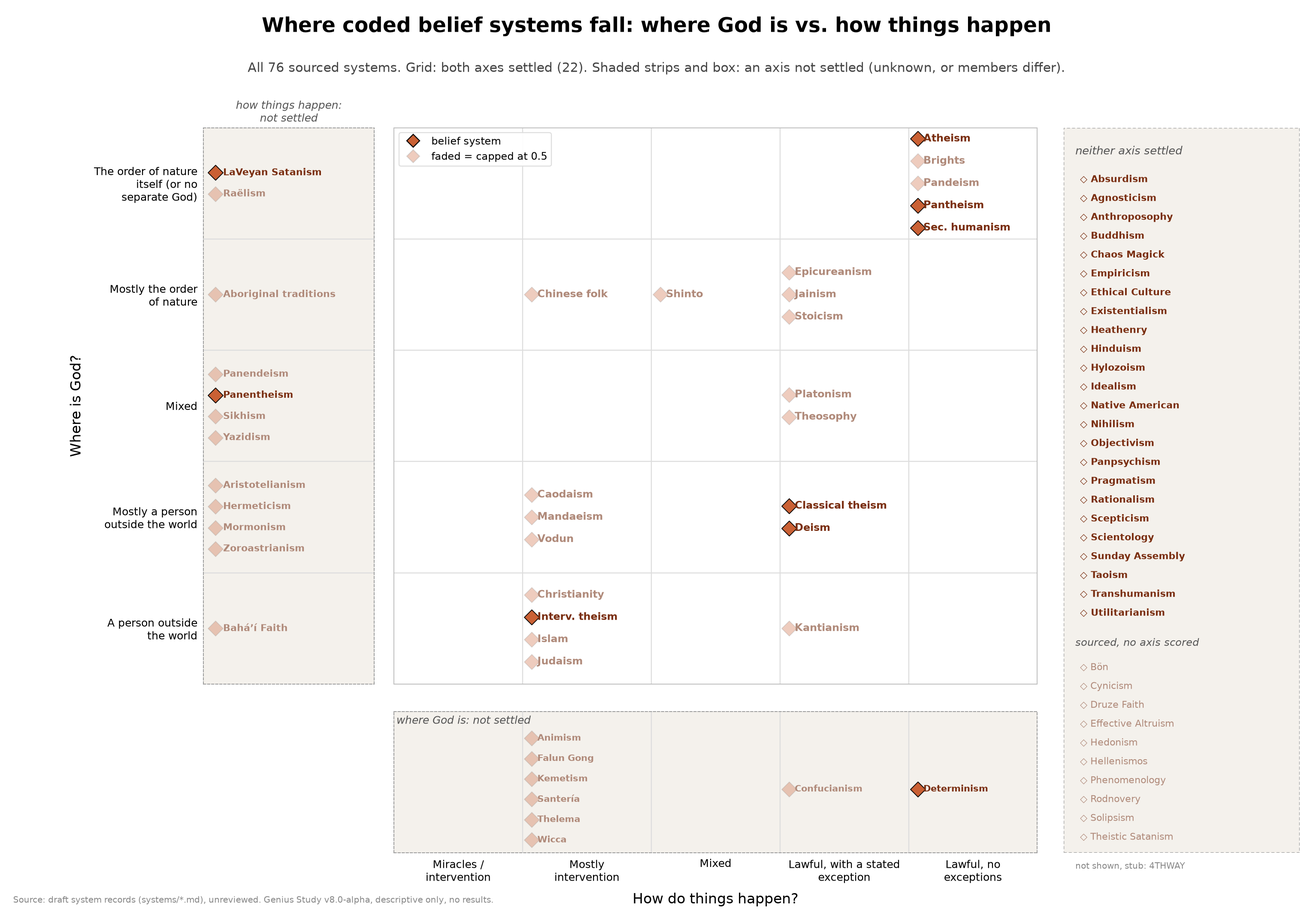
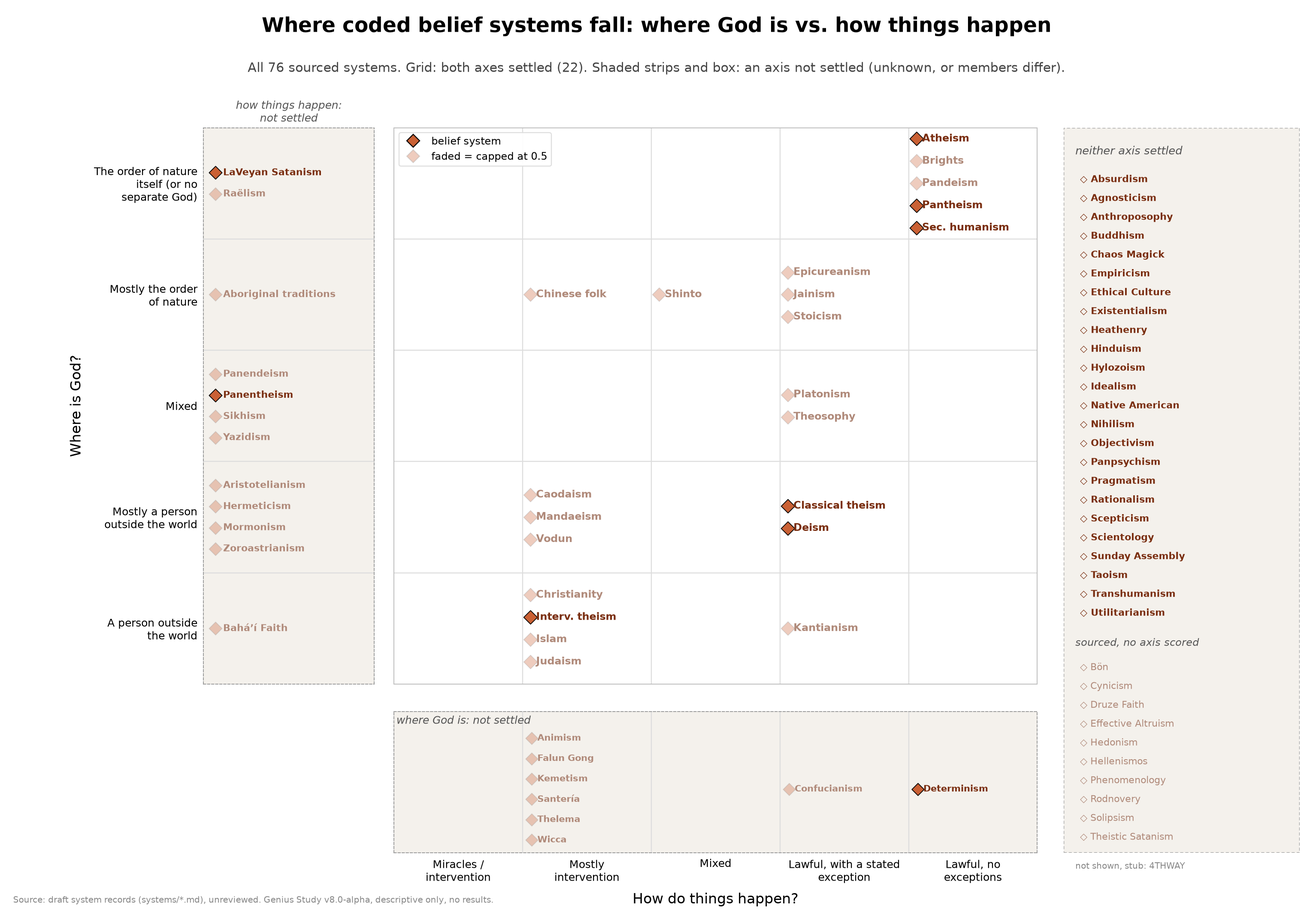
Chart labels: fitted columns and fonts so no labels overlap; surname labels drop suffixes and parentheticals (King, Ibn Rushd); figures regenerated (57 plotted, 86 not scorable)

diff --git a/scripts/make_figures.py b/scripts/make_figures.py
@@ -25,7 +25,7 @@ from matplotlib.patches import Rectangle  # noqa: E402
 sys.path.insert(0, os.path.dirname(os.path.abspath(__file__)))
 from matplotlib.lines import Line2D  # noqa: E402
 import math  # noqa: E402
-from lib.records import (REPO, read_record, read_csv, person_files, people_axis_points, P43_PEOPLE)  # noqa: E402
+from lib.records import (REPO, read_record, read_csv, person_files, people_axis_points, P43_PEOPLE, short_label)  # noqa: E402
 
 FOOTER = "Genius Study v8.0-alpha · descriptive only, no results"
 MODELS = ["Claude", "DeepSeek", "Gemini", "GPT", "Grok"]
@@ -46,6 +46,81 @@ SOURCED_SYSTEMS = ["CLASS_THEISM", "CLTHEI", "CHRIST", "ISLAM", "JUDA", "DEISM",
                    "DETERM", "LVSAT", "PANENT", "HEDON", "PANPSY", "IDEAL"]
 AXES = ["A_locus", "B_cause", "C_ledger", "D_authority", "E_scope"]
 DPI = 170
+
+
+# Label layout ---------------------------------------------------------------
+from matplotlib.font_manager import FontProperties  # noqa: E402
+from matplotlib.textpath import TextToPath  # noqa: E402
+
+_T2P = TextToPath()
+
+
+def text_width_in(label, fs, bold=False):
+    """Width of a label in inches at font size fs (points)."""
+    prop = FontProperties(size=fs, weight="bold" if bold else "normal")
+    w, _, _ = _T2P.get_text_width_height_descent(label, prop, ismath=False)
+    return w / 72.0
+
+
+def fit_cell(labels, cell_w, cell_h, fs_max, fs_min=7.5, dot_gap=0.05, head=(), max_cols=4, bold_head=True,
+             line=1.45, usable_w=0.92, usable_h=0.84, pad=0.08):
+    """Pick (ncols, fs) for one grid cell so that no label overlaps its neighbour.
+    cell_w, cell_h: the cell's size in inches. labels fill columns below `head` labels, which take full-width rows.
+    Prefers the largest font, then the fewest columns. dot_gap is the dot-to-text offset and pad the clear space
+    before the next column's marker, both in cell units."""
+    n = len(labels)
+    fs = fs_max
+    while fs >= fs_min - 1e-9:
+        rowh = fs * line / 72.0 / cell_h                    # one text line, in cell units
+        ok = []
+        for ncols in range(1, max_cols + 1):
+            if n == 0 and ncols > 1:
+                break
+            nrows = len(head) + (math.ceil(n / ncols) if n else 0)
+            if nrows * rowh > usable_h:
+                continue
+            colw = usable_w / ncols
+            wide = max((text_width_in(t, fs) / cell_w for t in labels), default=0)
+            hw = max((text_width_in(t, fs, bold_head) / cell_w for t in head), default=0)
+            if dot_gap + wide + pad <= colw and dot_gap + hw <= usable_w:
+                ok.append((ncols, nrows))
+        if ok:
+            # Largest font first; then the fewest columns that keep a cell to about six rows.
+            short = [c for c, r in ok if r <= 6]
+            return (short[0] if short else ok[0][0]), fs
+        fs -= 0.5
+    return max_cols, fs_min
+
+
+def report_overlaps(fig, name):
+    """Print any overlapping label boxes (labels against labels and against markers). Used to check the charts."""
+    fig.canvas.draw()
+    r = fig.canvas.get_renderer()
+    boxes = []
+    for ax in fig.axes:
+        for t in ax.texts:
+            if t.get_text().strip():
+                boxes.append(("text", t.get_text(), t.get_window_extent(r)))
+        for c in ax.collections:
+            sizes = c.get_sizes()
+            for k, (x, y) in enumerate(c.get_offsets()):
+                px, py = c.get_offset_transform().transform((x, y))
+                area = sizes[k % len(sizes)] if len(sizes) else 36
+                rad = math.sqrt(area) / 2 * fig.dpi / 72.0
+                from matplotlib.transforms import Bbox
+                boxes.append(("dot", "", Bbox([[px - rad, py - rad], [px + rad, py + rad]])))
+    hits = []
+    for i in range(len(boxes)):
+        for j in range(i + 1, len(boxes)):
+            a, b = boxes[i], boxes[j]
+            if a[0] == "dot" and b[0] == "dot":
+                continue
+            if a[2].overlaps(b[2]):
+                ov = min(a[2].x1, b[2].x1) - max(a[2].x0, b[2].x0), min(a[2].y1, b[2].y1) - max(a[2].y0, b[2].y0)
+                if ov[0] > 1 and ov[1] > 1:
+                    hits.append((a[1] or "<dot>", b[1] or "<dot>"))
+    print(f"{name}: {len(hits)} label overlaps" + (": " + "; ".join(f"{x} / {y}" for x, y in hits[:20]) if hits else ""))
+    return hits
 
 
 def footer(fig, source):
@@ -158,7 +233,6 @@ def fig_core_composition(out):
 def fig_people_cause_locus(out):
     """Surnames sit next to their dots on a 5x5 grid. No region is shaded or labeled (Jason, 2026-10-08).
     Full 0-4 range on both axes. People come from people_axis_points(), not a hardcoded list."""
-    short_names = {"Galileo Galilei": "Galileo", "Ibn Sina (Avicenna)": "Ibn Sina"}
     # Plain words for the 0-4 scale (CODING_GUIDE §6: 0 pole, 1 leans, 2 mixed, 3 leans other pole with a stated exception, 4 pole)
     y_labels = ["A person outside\nthe world", "Mostly a person\noutside the world", "Mixed",
                 "Mostly the order\nof nature", "The order of nature\nitself (or no\nseparate God)"]
@@ -166,37 +240,41 @@ def fig_people_cause_locus(out):
                 "Lawful, with a stated\nexception", "Lawful, no\nexceptions"]
     dot = "#3B6AA0"
 
-    def short(name):
-        return short_names.get(name, name.split()[-1])
+    def label(p):
+        return short_label(p["name"]) + ("*" if p["name"] in P43_PEOPLE else "")
 
     pts, not_scorable = people_axis_points()
     cells = collections.defaultdict(list)
     for p in pts:
         cells[(p["B"], p["A"])].append(p)
 
-    fig = plt.figure(figsize=(16, 11))
-    ax = fig.add_axes((0.15, 0.13, 0.82, 0.72))
+    W, H = 18, 13
+    AX = (0.14, 0.12, 0.84, 0.74)
+    fig = plt.figure(figsize=(W, H))
+    ax = fig.add_axes(AX)
     ax.set_xlim(-0.5, 4.5)
     ax.set_ylim(-0.5, 4.5)
+    cell_w, cell_h = W * AX[2] / 5, H * AX[3] / 5
 
-    # Cells: a small grid of dots, surname to the right of each dot.
+    # Cells: a small grid of dots, surname to the right of each dot. Columns and font size are fitted per cell
+    # (fit_cell) so that no label runs into the next column or row.
     for (b, a), ps in cells.items():
-        ps = sorted(ps, key=lambda p: short(p["name"]))
+        ps = sorted(ps, key=label)
+        labs = [label(p) for p in ps]
         n = len(ps)
-        ncols = 1 if n <= 5 else 2  # one column fits long surnames; two only for crowded cells
+        ncols, fs = fit_cell(labs, cell_w, cell_h, fs_max=12, dot_gap=0.05, max_cols=3)
         nrows = math.ceil(n / ncols)
-        colw = 0.9 / ncols
-        rowh = min(0.24, 0.8 / max(nrows, 1))
+        colw = 0.92 / ncols
+        rowh = min(0.24, 0.8 / max(nrows - 1, 1))
         for i, p in enumerate(ps):
             c, r = divmod(i, nrows)  # fill down each column first
-            x = b - 0.42 + c * colw
+            x = b - 0.44 + c * colw
             y = a + (nrows - 1) / 2 * rowh - r * rowh
             cert = min(p["cA"], p["cB"])
             faded = cert < 0.7
             ax.scatter(x, y, s=120, color=dot, alpha=0.28 if faded else 0.95,
                        edgecolor="#999999" if faded else "black", lw=0.8, zorder=3)
-            label = short(p["name"]) + ("*" if p["name"] in P43_PEOPLE else "")
-            ax.text(x + 0.05, y, label, ha="left", va="center", fontsize=12,
+            ax.text(x + 0.05, y, labs[i], ha="left", va="center", fontsize=fs,
                     color="#777777" if faded else "#111111", zorder=4)
 
     ax.set_xticks(range(5), x_labels, fontsize=11.5)
@@ -228,6 +306,7 @@ def fig_people_cause_locus(out):
     fig.text(0.01, 0.012, "Source: draft person records in neuresthetics/neuresthetics_genius_study (people/), "
              "unreviewed. Genius Study v8.0-alpha, descriptive only, no results.",
              ha="left", va="bottom", fontsize=8.5, color="#888888")
+    report_overlaps(fig, "people_cause_locus.png")
     save(fig, out, "people_cause_locus.png")
 
 
@@ -343,31 +422,39 @@ def _style(it):
 
 def _mark(ax, x, y, it, fs):
     sysm, f, col, tcol = _style(it)
-    ax.scatter(x, y, s=110 if sysm else 95, marker="D" if sysm else "o", color=col, alpha=0.30 if f else 0.95,
+    # Shrink markers with the font in crowded cells so that stacked diamonds and dots do not touch.
+    size = min(110 if sysm else 95, (fs * (0.95 if sysm else 1.1)) ** 2)
+    ax.scatter(x, y, s=size, marker="D" if sysm else "o", color=col, alpha=0.30 if f else 0.95,
                edgecolor="#999999" if f else "black", lw=0.8, zorder=3, clip_on=False)
     ax.text(x + 0.045, y, it["label"], ha="left", va="center", fontsize=fs, fontweight="bold" if sysm else "normal",
             color=tcol, zorder=4, clip_on=False)
 
 
 def _draw_cells(ax, items):
-    """Systems take full-width rows at the top of a cell; people fill one or two columns below."""
+    """Systems take full-width rows at the top of a cell; people fill columns below. Columns and font size are
+    fitted per cell (fit_cell) from the axes' size so that labels do not overlap."""
+    fig = ax.figure
+    bb = ax.get_position()
+    cell_w = fig.get_figwidth() * bb.width / 5
+    cell_h = fig.get_figheight() * bb.height / 5
     cells = collections.defaultdict(list)
     for it in items:
         cells[(it["B"], it["A"])].append(it)
     for (b, a), its in cells.items():
         syss = sorted([i for i in its if i["kind"] == "system"], key=lambda i: i["label"])
         ppl = sorted([i for i in its if i["kind"] != "system"], key=lambda i: i["label"])
-        ncols = 1 if len(ppl) <= 5 - len(syss) else 2
-        prow = math.ceil(len(ppl) / ncols)
+        ncols, fs = fit_cell([i["label"] for i in ppl], cell_w, cell_h, fs_max=10, fs_min=7,
+                             dot_gap=0.045, head=[i["label"] for i in syss], max_cols=3, line=1.4)
+        prow = math.ceil(len(ppl) / ncols) if ppl else 0
         nrows = len(syss) + prow
-        rowh = min(0.2, 0.84 / max(nrows - 1, 1))
-        fs = 10 if nrows <= 5 else (9 if nrows <= 7 else 8)
+        rowh = min(0.2, 0.8 / max(nrows - 1, 1))
         top = a + (nrows - 1) / 2 * rowh
+        colw = 0.92 / ncols
         for i, it in enumerate(syss):
-            _mark(ax, b - 0.43, top - i * rowh, it, fs)
+            _mark(ax, b - 0.44, top - i * rowh, it, fs)
         for i, it in enumerate(ppl):
             c, r = divmod(i, prow)
-            _mark(ax, b - 0.43 + c * 0.47, top - (len(syss) + r) * rowh, it, fs)
+            _mark(ax, b - 0.44 + c * colw, top - (len(syss) + r) * rowh, it, fs)
 
 
 def _layout(fig):
@@ -480,17 +567,17 @@ def fig_systems_cause_locus(out):
     ax.legend(leg, names, loc="upper left", fontsize=10, frameon=True, framealpha=0.95, edgecolor="#DDDDDD")
     fig.text(0.01, 0.008, "Source: draft system records (systems/*.md), unreviewed. Genius Study v8.0-alpha, descriptive only, no results.",
              ha="left", va="bottom", fontsize=8.5, color="#888888")
+    report_overlaps(fig, "systems_cause_locus.png")
     save(fig, out, "systems_cause_locus.png")
 
 
 def fig_people_systems_overlay(out):
     grid, a_only, b_only, neither, unscored, stubs = system_axis_points()
     pts, not_scorable = people_axis_points()
-    short_names = {"Galileo Galilei": "Galileo", "Ibn Sina (Avicenna)": "Ibn Sina"}
     items = [{"B": p["B"], "A": p["A"], "kind": "person", "faded": min(p["cA"], p["cB"]) < 0.7,
-              "label": short_names.get(p["name"], p["name"].split()[-1]) + ("*" if p["name"] in P43_PEOPLE else "")}
+              "label": short_label(p["name"]) + ("*" if p["name"] in P43_PEOPLE else "")}
              for p in pts]
-    fig = plt.figure(figsize=(19, 13.5))
+    fig = plt.figure(figsize=(22, 15.5))
     ax, left, bot, box = _layout(fig)
     _draw_cells(ax, items + grid)
     _draw_strips(left, bot, a_only, b_only)
@@ -507,6 +594,7 @@ def fig_people_systems_overlay(out):
     ax.legend(leg, names, loc="upper left", fontsize=10, frameon=True, framealpha=0.95, edgecolor="#DDDDDD")
     fig.text(0.01, 0.008, "Source: draft person and system records, unreviewed. Genius Study v8.0-alpha, descriptive only, no results.",
              ha="left", va="bottom", fontsize=8.5, color="#888888")
+    report_overlaps(fig, "people_systems_overlay.png")
     save(fig, out, "people_systems_overlay.png")
 
 

diff --git a/scripts/progress_status.py b/scripts/progress_status.py
@@ -38,7 +38,7 @@ AUDITS = ("9 blind lens runs on four batches: 3 on a 115-claim packet (eff4700),
 NEXT_STEPS = ("Stage 3 (everyone else with F ≥ 3) has started: the first 12 records (Spinoza, Descartes, Pascal, Leibniz, Kant, "
               "Hume, Darwin, Gauss, Riemann, Turing, Noether, von Neumann) are drafts that still need to apply P29 and P30 (the stage 3-b six "
               "follow P14–P28 on main; the stage 3-a six also still need P14–P28); the other 79 records follow P14–P28 (schema 1.3) and "
-              "P30's age rule, and their worldview.working_years now equals timing.major_work_period (P30 addendum); under P31 (continuity rule) all 55 values the span audit flagged stand; the strict-period alternative is in reports/period_rule_sensitivity.md; batch C (Wu, Lovelace, Smith, al-Farabi, al-Khwarizmi, Bell) is drafted in P32 order and its blind lens run is applied (P35, P36); batch D (Archimedes, Aristotle, McClintock, Russell, Debussy, Monet) is drafted and its blind audit is applied (P41); batch E (Dante, Euclid, Francis Bacon, Kahlo, Nietzsche, Dostoevsky) is drafted (P40) and its blind audit is applied; batch F (García Márquez, Hopper, Arendt, Poincaré, Hippocrates, Homer) is drafted (P42) and passed its blind audit (15/15 hold; fixes applied); batch G (Hypatia, Stravinsky, Bach, Locke) is drafted (P43) and passed its blind audit (13/13 hold; fixes applied); batch H (Marx, Tolstoy, Leonardo da Vinci, Beethoven) passed its blind audit (6 hold, 1 weaken; fixed); batch I (Wittgenstein, Maimonides, Michelangelo, Tesla) passed its blind audit (8 hold, 2 weaken; fixed); batch J (Omar Khayyam, Picasso, Plato, Raphael) passed its blind audit (10 hold, 3 weaken; fixed); batch K (Rembrandt, Rosalind Franklin, Salvador Dalí, Simone de Beauvoir) passed its blind audit (9 hold, 1 weaken; fixed); batch L (Socrates, Stephen Hawking, Thomas Edison, Tim Berners-Lee) passed its blind audit (10 hold, 1 weaken; fixed); batch M (Vincent van Gogh, Virginia Woolf, William Shakespeare, Wolfgang Amadeus Mozart) passed its blind audit (16 hold, 3 weaken; fixed; RQ1 gave the P42 will-preamble addendum); batch N (Andrew Wiles, Arthur Schopenhauer, B.F. Skinner, Carl Jung) passed its blind audit (17 hold, 5 weaken, 1 fail; fixed; RQ3 gave the P35 addendum on theories of mind and behaviour); batch O (Carl Sagan, Claude Shannon, Confucius, David Hilbert) passed its blind audit (19 hold, 3 weaken, 1 fail; fixed; RQ O1 and O2 gave the P42 and P16 addenda); the chart images were refreshed after batches M–O; batch P (Donald Knuth, Francis Crick, Franz Kafka, Galen) passed its blind audit (39 hold, 6 weaken, 0 fail; fixed; P1–P3 kept Knuth capped at 0.5, Galen B 3, Kafka BELOW_THRESHOLD); batch Q (Georg Wilhelm Friedrich Hegel, Georgia O'Keeffe, Henry Ford, Ibn Khaldun) passed its blind audit (43 hold, 4 weaken, 1 fail; fixed; Knuth span 1968–2023, Jason's call; Jason's ruling puts Hegel at B 2); batch R (Ibn Rushd (Averroes), Jacques Derrida, James Joyce, James Watson) passed its blind audit (39 hold, 4 weaken, 0 fail; fixed; R1 keeps Watson at 0.5: 'lifelong' does not lift the P1 cap); batch S (Jane Austen, Jane Goodall, Jean Piaget, Jean-Jacques Rousseau) passed its blind audit (43 hold, 4 weaken, 1 fail; fixed; S1 keeps Rousseau CHRIST, S2 adds the P42 addendum on adopted characters' words, S3 counts Austen's prayers at 0.5); batch T (Johann Wolfgang von Goethe, John Maynard Keynes, Jonas Salk, Leonhard Euler) is drafted and its blind audit is applied (rulings T1, T2, RQ-AU1); batch U (Martin Heidegger, Martin Luther King Jr., Michel Foucault, Miguel de Cervantes; Louis Pasteur already coded) passed its blind audit (38 hold, 6 weaken, 0 fail; fixed; U2 puts Cervantes BELOW_THRESHOLD; U1 on King's B and Kant's B 3 were settled by Jason's rulings on 2026-10-19: King B 3 at 0.7 from Strength to Love, mid_basin true; Kant B 3 at 0.7, alt 4); batch V (Miles Davis, Milton Friedman, Nelson Mandela, Niccolò Machiavelli) passed its blind audit (42 hold, 6 weaken, 0 fail; fixed; V1 sets Mandela's B UNKNOWN, V2 and V3 keep Machiavelli and Davis as coded); batch W (Nicolaus Copernicus, Pythagoras, Richard Wagner, Roger Penrose; Paul Dirac already coded) passed its blind audit (35 hold, 5 weaken, 0 fail; fixed; W1 keeps Copernicus BELOW_THRESHOLD, W2 adds IDEAL as a lead for Wagner, W3 keeps Penrose ATHE at 0.5); batch X (Samuel Morse, Siddhartha Gautama, Sigmund Freud, Srinivasa Ramanujan) passed its blind audit (45 hold, 7 weaken, 0 fail; fixed; X1 keeps Morse's B BELOW_THRESHOLD, X2 keeps Gautama BELOW_THRESHOLD with BUDDH the lead, X3 makes Freud not a scientist, X4 keeps Ramanujan as coded; Pythagoras's era now UNKNOWN under a strict P39); batch Y (Steve Jobs, Sun Tzu, Terence Tao, Toni Morrison; Thomas Aquinas already coded), the last batch of this run, passed its blind audit (64 hold, 3 weaken, 0 fail; fixed; Y1 and Y2 keep Jobs and Morrison BELOW_THRESHOLD, Y3 makes Tao not a scientist; Sun Tzu's era now UNKNOWN); the chart images were refreshed after batch Y (57 plotted, 86 not scorable); next in order after rank 136: Virgil, Ada Yonath, Akira Kurosawa, Al-Biruni; systems were sourced in batches of six in v7.1 number order "
+              "P30's age rule, and their worldview.working_years now equals timing.major_work_period (P30 addendum); under P31 (continuity rule) all 55 values the span audit flagged stand; the strict-period alternative is in reports/period_rule_sensitivity.md; batch C (Wu, Lovelace, Smith, al-Farabi, al-Khwarizmi, Bell) is drafted in P32 order and its blind lens run is applied (P35, P36); batch D (Archimedes, Aristotle, McClintock, Russell, Debussy, Monet) is drafted and its blind audit is applied (P41); batch E (Dante, Euclid, Francis Bacon, Kahlo, Nietzsche, Dostoevsky) is drafted (P40) and its blind audit is applied; batch F (García Márquez, Hopper, Arendt, Poincaré, Hippocrates, Homer) is drafted (P42) and passed its blind audit (15/15 hold; fixes applied); batch G (Hypatia, Stravinsky, Bach, Locke) is drafted (P43) and passed its blind audit (13/13 hold; fixes applied); batch H (Marx, Tolstoy, Leonardo da Vinci, Beethoven) passed its blind audit (6 hold, 1 weaken; fixed); batch I (Wittgenstein, Maimonides, Michelangelo, Tesla) passed its blind audit (8 hold, 2 weaken; fixed); batch J (Omar Khayyam, Picasso, Plato, Raphael) passed its blind audit (10 hold, 3 weaken; fixed); batch K (Rembrandt, Rosalind Franklin, Salvador Dalí, Simone de Beauvoir) passed its blind audit (9 hold, 1 weaken; fixed); batch L (Socrates, Stephen Hawking, Thomas Edison, Tim Berners-Lee) passed its blind audit (10 hold, 1 weaken; fixed); batch M (Vincent van Gogh, Virginia Woolf, William Shakespeare, Wolfgang Amadeus Mozart) passed its blind audit (16 hold, 3 weaken; fixed; RQ1 gave the P42 will-preamble addendum); batch N (Andrew Wiles, Arthur Schopenhauer, B.F. Skinner, Carl Jung) passed its blind audit (17 hold, 5 weaken, 1 fail; fixed; RQ3 gave the P35 addendum on theories of mind and behaviour); batch O (Carl Sagan, Claude Shannon, Confucius, David Hilbert) passed its blind audit (19 hold, 3 weaken, 1 fail; fixed; RQ O1 and O2 gave the P42 and P16 addenda); the chart images were refreshed after batches M–O; batch P (Donald Knuth, Francis Crick, Franz Kafka, Galen) passed its blind audit (39 hold, 6 weaken, 0 fail; fixed; P1–P3 kept Knuth capped at 0.5, Galen B 3, Kafka BELOW_THRESHOLD); batch Q (Georg Wilhelm Friedrich Hegel, Georgia O'Keeffe, Henry Ford, Ibn Khaldun) passed its blind audit (43 hold, 4 weaken, 1 fail; fixed; Knuth span 1968–2023, Jason's call; Jason's ruling puts Hegel at B 2); batch R (Ibn Rushd (Averroes), Jacques Derrida, James Joyce, James Watson) passed its blind audit (39 hold, 4 weaken, 0 fail; fixed; R1 keeps Watson at 0.5: 'lifelong' does not lift the P1 cap); batch S (Jane Austen, Jane Goodall, Jean Piaget, Jean-Jacques Rousseau) passed its blind audit (43 hold, 4 weaken, 1 fail; fixed; S1 keeps Rousseau CHRIST, S2 adds the P42 addendum on adopted characters' words, S3 counts Austen's prayers at 0.5); batch T (Johann Wolfgang von Goethe, John Maynard Keynes, Jonas Salk, Leonhard Euler) is drafted and its blind audit is applied (rulings T1, T2, RQ-AU1); batch U (Martin Heidegger, Martin Luther King Jr., Michel Foucault, Miguel de Cervantes; Louis Pasteur already coded) passed its blind audit (38 hold, 6 weaken, 0 fail; fixed; U2 puts Cervantes BELOW_THRESHOLD; U1 on King's B and Kant's B 3 were settled by Jason's rulings on 2026-10-19: King B 3 at 0.7 from Strength to Love, mid_basin true; Kant B 3 at 0.7, alt 4); batch V (Miles Davis, Milton Friedman, Nelson Mandela, Niccolò Machiavelli) passed its blind audit (42 hold, 6 weaken, 0 fail; fixed; V1 sets Mandela's B UNKNOWN, V2 and V3 keep Machiavelli and Davis as coded); batch W (Nicolaus Copernicus, Pythagoras, Richard Wagner, Roger Penrose; Paul Dirac already coded) passed its blind audit (35 hold, 5 weaken, 0 fail; fixed; W1 keeps Copernicus BELOW_THRESHOLD, W2 adds IDEAL as a lead for Wagner, W3 keeps Penrose ATHE at 0.5); batch X (Samuel Morse, Siddhartha Gautama, Sigmund Freud, Srinivasa Ramanujan) passed its blind audit (45 hold, 7 weaken, 0 fail; fixed; X1 keeps Morse's B BELOW_THRESHOLD, X2 keeps Gautama BELOW_THRESHOLD with BUDDH the lead, X3 makes Freud not a scientist, X4 keeps Ramanujan as coded; Pythagoras's era now UNKNOWN under a strict P39); batch Y (Steve Jobs, Sun Tzu, Terence Tao, Toni Morrison; Thomas Aquinas already coded), the last batch of this run, passed its blind audit (64 hold, 3 weaken, 0 fail; fixed; Y1 and Y2 keep Jobs and Morrison BELOW_THRESHOLD, Y3 makes Tao not a scientist; Sun Tzu's era now UNKNOWN); the chart images were refreshed after batch Y and again after Jason's 2026-10-19 rulings and the label fix (57 plotted, 86 not scorable; no overlapping labels); next in order after rank 136: Virgil, Ada Yonath, Akira Kurosawa, Al-Biruni; systems were sourced in batches of six in v7.1 number order "
               "(S1 passed its blind audit, 5 hold, 2 weaken; fixed under P44; S2 passed its blind audit, 9 hold, 1 weaken; fixed; S3 passed its blind audit, 10 hold, 1 weaken; fixed; S4 passed its blind audit, 11 hold, 1 weaken; fixed; S5 passed its blind audit, 13/13 hold; follow-ups applied; S6 passed its blind audit, 14 hold, 1 weaken; fixed; S7 passed its blind audit, 13 hold, 3 weaken; fixed "
               "(P44(e)); S8 passed audit with fixes (SHINTO B, HINDU C, HELLEN and KEMET re-sourced under P45(a)); S9 passed audit with fixes (RODNOV A and BON A, B to UNKNOWN; P46 added); S10 passed audit with fixes (VODUN scope, ANTHRO D 1, quote-backed P46 checks); S11 passed audit with fixes (THEOS B 3; summary-only sources are leads); S12 passed audit with fixes (P45(b) amended; RAEL stays sourced). Systems pass complete: all 77 worked in batches S1–S12, every batch blind-audited with fixes applied; 66 sourced, 10 sourced but unscored (P46), 1 stub (4THWAY, until a full text is read)); the revised rubric has not started")
 

diff --git a/scripts/lib/records.py b/scripts/lib/records.py
@@ -237,6 +237,24 @@ def firm(p):
     return all(isinstance(c, (int, float)) and c >= CHART_CERT for c in (p["cA"], p["cB"]))
 
 
+SHORT_LABELS = {"Galileo Galilei": "Galileo", "Leonardo da Vinci": "Leonardo"}
+_SUFFIXES = {"jr", "jr.", "sr", "sr.", "ii", "iii", "iv"}
+
+
+def short_label(name):
+    """Chart label for a person: the surname, without a parenthetical ('Ibn Rushd (Averroes)') or a trailing
+    suffix ('Martin Luther King Jr.' -> 'King'). A two-word 'Ibn X' name keeps both words ('Ibn Rushd')."""
+    if name in SHORT_LABELS:
+        return SHORT_LABELS[name]
+    base = re.sub(r"\s*\([^)]*\)", "", name).strip()
+    toks = base.replace(",", " ").split()
+    while len(toks) > 1 and toks[-1].lower() in _SUFFIXES:
+        toks.pop()
+    if len(toks) == 2 and toks[0].lower() == "ibn":
+        return " ".join(toks)
+    return toks[-1] if toks else name
+
+
 def people_chart_caption():
     """README caption for figures/people_cause_locus.png, computed from the records. Every count uses only the
     people scorable for it; the rest are reported as not scorable yet (OPEN_DECISIONS P34)."""
@@ -264,7 +282,7 @@ def people_chart_caption():
         ivn = (f" **Interview voice (P43):** {names} {'rests' if len(iv) == 1 else 'rest'} on interview statements of disputed wording "
                f"(for Stravinsky, the Craft books), capped at 0.5 and drawn faded"
                + (f"; {nleft} plotted {'person scores' if nleft == 1 else 'people score'} left of B 3 "
-                  f"({', '.join(x['name'].split()[-1] for x in pts if x['B'] < 3)})" if nleft else "") + ".")
+                  f"({', '.join(short_label(x['name']) for x in pts if x['B'] < 3)})" if nleft else "") + ".")
     return (f"*Draft person scores: where God is (up the chart) against how things happen (across the chart). "
             f"No region is marked. Plotted: the {len(pts)} coded people with both axes scored; {brange}.{left}{ivn}{ns} "
             f"These are unreviewed, hand-picked drafts, not a sample, and there is no base rate for any era, so the "

diff --git a/README.md b/README.md
@@ -22,7 +22,7 @@ A study of where remembered genius sits on a scale of lawful, non-intervening or
 | Decisions settled | 61 / 61 |
 | Audits | 9 blind lens runs on four batches: 3 on a 115-claim packet (eff4700), 2 on a 147-claim packet (e648145), 2 on a 124-claim packet (d9903b7/43cecc4; fixes at 6f37cd6) and 2 on a 165-claim packet (b21655b; run 1 155 hold / 10 weaken, run 2 160 hold / 5 weaken, 0 wrong; agreement 156/165, κ 0.37; fixes applied at 3bcd59c); see [reports/audit_2026-10-02.md](reports/audit_2026-10-02.md). Stage 3: 4 blind runs on the first 12 records (stage 3-a: 561 claims at 59a8371; stage 3-b: 420 claims at 3db6511); their method rulings are decisions P14–P28; one blind run on the stage 3-b rulings (93 claims at 6155174: 88 hold, 4 weaken, 1 fail, fixed at 4c10399) gave P29; lens's runs on the v8.a rulings packet (34a73c4) and the v8.b P29 packet (e930597) gave P30; the P30 span-alignment audit (7a52a3f) gave P31; one blind run on stage 3 batch C (14 claims at dd91009: 8 hold, 6 weaken, 0 fail; no second run needed under P30 #16) gave P35 and P36; one blind run on batch D (16 claims at 3f4817e: 14 hold, 2 weaken, 0 fail) gave P41, and one on batch E (18 claims at 2332880: 17 hold, 1 weaken, 0 fail); their fixes are applied; one on batch F (15 claims at 64605bd: 15 hold, 0 weaken, 0 fail) passed; its fixes are applied; one on batch G (13 claims at 5ff29b4: 13 hold, 0 weaken, 0 fail) passed and gave P43 (Jason's ruling on RQ1); its fixes are applied. Batch H (Marx, Tolstoy, Leonardo da Vinci, Beethoven; 7 claims at cae9cb2: 6 hold, 1 weaken, 0 fail) passed and extended P41 to miracle rejection; its fixes are applied; batch I (Wittgenstein, Maimonides, Michelangelo, Tesla; 10 claims at bbb26f8: 8 hold, 2 weaken, 0 fail) passed; its fixes are applied; batch J (Omar Khayyam, Picasso, Plato, Raphael; 13 claims at 81b9098: 10 hold, 3 weaken, 0 fail) passed; its fixes are applied; batch K (Rembrandt, Rosalind Franklin, Salvador Dalí, Simone de Beauvoir; 10 claims at 2d75649: 9 hold, 1 weaken, 0 fail) passed; its fixes are applied; batch L (Socrates, Stephen Hawking, Thomas Edison, Tim Berners-Lee; 11 claims at 2742382: 10 hold, 1 weaken, 0 fail) passed; its fixes are applied at 55d6956; all of batches H–L have passed their audits with fixes applied; batch M (Vincent van Gogh, Virginia Woolf, William Shakespeare, Wolfgang Amadeus Mozart; 19 claims at 159d60d: 16 hold, 3 weaken, 0 fail) passed; its fixes are applied, and v8's ruling on its RQ1 (on the auditor's advice) added the P42 will-preamble addendum; batch N (Andrew Wiles, Arthur Schopenhauer, B.F. Skinner, Carl Jung; 23 claims at 041f54b: 17 hold, 5 weaken, 1 fail) passed; its fixes are applied, and v8's rulings on its RQ1–RQ3 (on the auditor's advice) set Schopenhauer's B 3 and Skinner's B 4 and added the P35 addendum on theories of mind and behaviour; batch O (Carl Sagan, Claude Shannon, Confucius, David Hilbert; 23 claims at ee3d463: 19 hold, 3 weaken, 1 fail) passed; its fixes are applied, and v8's rulings on its RQ O1 and O2 (on the auditor's advice) added the P42 addendum on disciples' records of sayings and the P16 addendum on a general remark on lawful nature; batch P (Donald Knuth, Francis Crick, Franz Kafka, Galen; 45 claims at 08be43b: 39 hold, 6 weaken, 0 fail) passed; its fixes are applied, and v8's picks on its P1–P3 (on the auditor's advice) cap Knuth's post-span evidence at 0.5 rather than excluding it, keep Galen's B 3 at 0.5 and keep Kafka BELOW_THRESHOLD; batch Q (Georg Wilhelm Friedrich Hegel, Georgia O'Keeffe, Henry Ford, Ibn Khaldun; 48 claims at 0b3023d: 43 hold, 4 weaken, 1 fail) passed; its fixes are applied, the Knuth span is 1968–2023 under P30 addendum d (Jason's call), and Jason's ruling on its RQ Q1 gives Hegel B 2 at 0.5 (Encyclopaedia §§248, 250); batch R (Ibn Rushd (Averroes), Jacques Derrida, James Joyce, James Watson; 43 claims at 0454445: 39 hold, 4 weaken, 0 fail) passed; its fixes are applied, and v8's call on its RQ R1 (on the auditor's advice) keeps Watson's post-span 'lifelong atheist' at the P1 cap of 0.5; batch S (Jane Austen, Jane Goodall, Jean Piaget, Jean-Jacques Rousseau; 48 claims at c5d448a: 43 hold, 4 weaken, 1 fail) passed with fixes applied; v8's calls on its RQ S1–S3 (on the auditor's advice) keep Rousseau CHRIST under P27, add the P42 addendum on a character's words adopted in the author's own voice (Rousseau stays at 0.7), and count Austen's prayers under P42 at 0.5 (A 0; she stays unplotted, B UNKNOWN); under P30 #16 its FAIL calls for a second blind run |
 | Latest tag | `v8.0-alpha` (prerelease) |
-| Next steps | Stage 3 (everyone else with F ≥ 3) has started: the first 12 records (Spinoza, Descartes, Pascal, Leibniz, Kant, Hume, Darwin, Gauss, Riemann, Turing, Noether, von Neumann) are drafts that still need to apply P29 and P30 (the stage 3-b six follow P14–P28 on main; the stage 3-a six also still need P14–P28); the other 79 records follow P14–P28 (schema 1.3) and P30's age rule, and their worldview.working_years now equals timing.major_work_period (P30 addendum); under P31 (continuity rule) all 55 values the span audit flagged stand; the strict-period alternative is in reports/period_rule_sensitivity.md; batch C (Wu, Lovelace, Smith, al-Farabi, al-Khwarizmi, Bell) is drafted in P32 order and its blind lens run is applied (P35, P36); batch D (Archimedes, Aristotle, McClintock, Russell, Debussy, Monet) is drafted and its blind audit is applied (P41); batch E (Dante, Euclid, Francis Bacon, Kahlo, Nietzsche, Dostoevsky) is drafted (P40) and its blind audit is applied; batch F (García Márquez, Hopper, Arendt, Poincaré, Hippocrates, Homer) is drafted (P42) and passed its blind audit (15/15 hold; fixes applied); batch G (Hypatia, Stravinsky, Bach, Locke) is drafted (P43) and passed its blind audit (13/13 hold; fixes applied); batch H (Marx, Tolstoy, Leonardo da Vinci, Beethoven) passed its blind audit (6 hold, 1 weaken; fixed); batch I (Wittgenstein, Maimonides, Michelangelo, Tesla) passed its blind audit (8 hold, 2 weaken; fixed); batch J (Omar Khayyam, Picasso, Plato, Raphael) passed its blind audit (10 hold, 3 weaken; fixed); batch K (Rembrandt, Rosalind Franklin, Salvador Dalí, Simone de Beauvoir) passed its blind audit (9 hold, 1 weaken; fixed); batch L (Socrates, Stephen Hawking, Thomas Edison, Tim Berners-Lee) passed its blind audit (10 hold, 1 weaken; fixed); batch M (Vincent van Gogh, Virginia Woolf, William Shakespeare, Wolfgang Amadeus Mozart) passed its blind audit (16 hold, 3 weaken; fixed; RQ1 gave the P42 will-preamble addendum); batch N (Andrew Wiles, Arthur Schopenhauer, B.F. Skinner, Carl Jung) passed its blind audit (17 hold, 5 weaken, 1 fail; fixed; RQ3 gave the P35 addendum on theories of mind and behaviour); batch O (Carl Sagan, Claude Shannon, Confucius, David Hilbert) passed its blind audit (19 hold, 3 weaken, 1 fail; fixed; RQ O1 and O2 gave the P42 and P16 addenda); the chart images were refreshed after batches M–O; batch P (Donald Knuth, Francis Crick, Franz Kafka, Galen) passed its blind audit (39 hold, 6 weaken, 0 fail; fixed; P1–P3 kept Knuth capped at 0.5, Galen B 3, Kafka BELOW_THRESHOLD); batch Q (Georg Wilhelm Friedrich Hegel, Georgia O'Keeffe, Henry Ford, Ibn Khaldun) passed its blind audit (43 hold, 4 weaken, 1 fail; fixed; Knuth span 1968–2023, Jason's call; Jason's ruling puts Hegel at B 2); batch R (Ibn Rushd (Averroes), Jacques Derrida, James Joyce, James Watson) passed its blind audit (39 hold, 4 weaken, 0 fail; fixed; R1 keeps Watson at 0.5: 'lifelong' does not lift the P1 cap); batch S (Jane Austen, Jane Goodall, Jean Piaget, Jean-Jacques Rousseau) passed its blind audit (43 hold, 4 weaken, 1 fail; fixed; S1 keeps Rousseau CHRIST, S2 adds the P42 addendum on adopted characters' words, S3 counts Austen's prayers at 0.5); batch T (Johann Wolfgang von Goethe, John Maynard Keynes, Jonas Salk, Leonhard Euler) is drafted and its blind audit is applied (rulings T1, T2, RQ-AU1); batch U (Martin Heidegger, Martin Luther King Jr., Michel Foucault, Miguel de Cervantes; Louis Pasteur already coded) passed its blind audit (38 hold, 6 weaken, 0 fail; fixed; U2 puts Cervantes BELOW_THRESHOLD; U1 on King's B and Kant's B 3 were settled by Jason's rulings on 2026-10-19: King B 3 at 0.7 from Strength to Love, mid_basin true; Kant B 3 at 0.7, alt 4); batch V (Miles Davis, Milton Friedman, Nelson Mandela, Niccolò Machiavelli) passed its blind audit (42 hold, 6 weaken, 0 fail; fixed; V1 sets Mandela's B UNKNOWN, V2 and V3 keep Machiavelli and Davis as coded); batch W (Nicolaus Copernicus, Pythagoras, Richard Wagner, Roger Penrose; Paul Dirac already coded) passed its blind audit (35 hold, 5 weaken, 0 fail; fixed; W1 keeps Copernicus BELOW_THRESHOLD, W2 adds IDEAL as a lead for Wagner, W3 keeps Penrose ATHE at 0.5); batch X (Samuel Morse, Siddhartha Gautama, Sigmund Freud, Srinivasa Ramanujan) passed its blind audit (45 hold, 7 weaken, 0 fail; fixed; X1 keeps Morse's B BELOW_THRESHOLD, X2 keeps Gautama BELOW_THRESHOLD with BUDDH the lead, X3 makes Freud not a scientist, X4 keeps Ramanujan as coded; Pythagoras's era now UNKNOWN under a strict P39); batch Y (Steve Jobs, Sun Tzu, Terence Tao, Toni Morrison; Thomas Aquinas already coded), the last batch of this run, passed its blind audit (64 hold, 3 weaken, 0 fail; fixed; Y1 and Y2 keep Jobs and Morrison BELOW_THRESHOLD, Y3 makes Tao not a scientist; Sun Tzu's era now UNKNOWN); the chart images were refreshed after batch Y (57 plotted, 86 not scorable); next in order after rank 136: Virgil, Ada Yonath, Akira Kurosawa, Al-Biruni; systems were sourced in batches of six in v7.1 number order (S1 passed its blind audit, 5 hold, 2 weaken; fixed under P44; S2 passed its blind audit, 9 hold, 1 weaken; fixed; S3 passed its blind audit, 10 hold, 1 weaken; fixed; S4 passed its blind audit, 11 hold, 1 weaken; fixed; S5 passed its blind audit, 13/13 hold; follow-ups applied; S6 passed its blind audit, 14 hold, 1 weaken; fixed; S7 passed its blind audit, 13 hold, 3 weaken; fixed (P44(e)); S8 passed audit with fixes (SHINTO B, HINDU C, HELLEN and KEMET re-sourced under P45(a)); S9 passed audit with fixes (RODNOV A and BON A, B to UNKNOWN; P46 added); S10 passed audit with fixes (VODUN scope, ANTHRO D 1, quote-backed P46 checks); S11 passed audit with fixes (THEOS B 3; summary-only sources are leads); S12 passed audit with fixes (P45(b) amended; RAEL stays sourced). Systems pass complete: all 77 worked in batches S1–S12, every batch blind-audited with fixes applied; 66 sourced, 10 sourced but unscored (P46), 1 stub (4THWAY, until a full text is read)); the revised rubric has not started |
+| Next steps | Stage 3 (everyone else with F ≥ 3) has started: the first 12 records (Spinoza, Descartes, Pascal, Leibniz, Kant, Hume, Darwin, Gauss, Riemann, Turing, Noether, von Neumann) are drafts that still need to apply P29 and P30 (the stage 3-b six follow P14–P28 on main; the stage 3-a six also still need P14–P28); the other 79 records follow P14–P28 (schema 1.3) and P30's age rule, and their worldview.working_years now equals timing.major_work_period (P30 addendum); under P31 (continuity rule) all 55 values the span audit flagged stand; the strict-period alternative is in reports/period_rule_sensitivity.md; batch C (Wu, Lovelace, Smith, al-Farabi, al-Khwarizmi, Bell) is drafted in P32 order and its blind lens run is applied (P35, P36); batch D (Archimedes, Aristotle, McClintock, Russell, Debussy, Monet) is drafted and its blind audit is applied (P41); batch E (Dante, Euclid, Francis Bacon, Kahlo, Nietzsche, Dostoevsky) is drafted (P40) and its blind audit is applied; batch F (García Márquez, Hopper, Arendt, Poincaré, Hippocrates, Homer) is drafted (P42) and passed its blind audit (15/15 hold; fixes applied); batch G (Hypatia, Stravinsky, Bach, Locke) is drafted (P43) and passed its blind audit (13/13 hold; fixes applied); batch H (Marx, Tolstoy, Leonardo da Vinci, Beethoven) passed its blind audit (6 hold, 1 weaken; fixed); batch I (Wittgenstein, Maimonides, Michelangelo, Tesla) passed its blind audit (8 hold, 2 weaken; fixed); batch J (Omar Khayyam, Picasso, Plato, Raphael) passed its blind audit (10 hold, 3 weaken; fixed); batch K (Rembrandt, Rosalind Franklin, Salvador Dalí, Simone de Beauvoir) passed its blind audit (9 hold, 1 weaken; fixed); batch L (Socrates, Stephen Hawking, Thomas Edison, Tim Berners-Lee) passed its blind audit (10 hold, 1 weaken; fixed); batch M (Vincent van Gogh, Virginia Woolf, William Shakespeare, Wolfgang Amadeus Mozart) passed its blind audit (16 hold, 3 weaken; fixed; RQ1 gave the P42 will-preamble addendum); batch N (Andrew Wiles, Arthur Schopenhauer, B.F. Skinner, Carl Jung) passed its blind audit (17 hold, 5 weaken, 1 fail; fixed; RQ3 gave the P35 addendum on theories of mind and behaviour); batch O (Carl Sagan, Claude Shannon, Confucius, David Hilbert) passed its blind audit (19 hold, 3 weaken, 1 fail; fixed; RQ O1 and O2 gave the P42 and P16 addenda); the chart images were refreshed after batches M–O; batch P (Donald Knuth, Francis Crick, Franz Kafka, Galen) passed its blind audit (39 hold, 6 weaken, 0 fail; fixed; P1–P3 kept Knuth capped at 0.5, Galen B 3, Kafka BELOW_THRESHOLD); batch Q (Georg Wilhelm Friedrich Hegel, Georgia O'Keeffe, Henry Ford, Ibn Khaldun) passed its blind audit (43 hold, 4 weaken, 1 fail; fixed; Knuth span 1968–2023, Jason's call; Jason's ruling puts Hegel at B 2); batch R (Ibn Rushd (Averroes), Jacques Derrida, James Joyce, James Watson) passed its blind audit (39 hold, 4 weaken, 0 fail; fixed; R1 keeps Watson at 0.5: 'lifelong' does not lift the P1 cap); batch S (Jane Austen, Jane Goodall, Jean Piaget, Jean-Jacques Rousseau) passed its blind audit (43 hold, 4 weaken, 1 fail; fixed; S1 keeps Rousseau CHRIST, S2 adds the P42 addendum on adopted characters' words, S3 counts Austen's prayers at 0.5); batch T (Johann Wolfgang von Goethe, John Maynard Keynes, Jonas Salk, Leonhard Euler) is drafted and its blind audit is applied (rulings T1, T2, RQ-AU1); batch U (Martin Heidegger, Martin Luther King Jr., Michel Foucault, Miguel de Cervantes; Louis Pasteur already coded) passed its blind audit (38 hold, 6 weaken, 0 fail; fixed; U2 puts Cervantes BELOW_THRESHOLD; U1 on King's B and Kant's B 3 were settled by Jason's rulings on 2026-10-19: King B 3 at 0.7 from Strength to Love, mid_basin true; Kant B 3 at 0.7, alt 4); batch V (Miles Davis, Milton Friedman, Nelson Mandela, Niccolò Machiavelli) passed its blind audit (42 hold, 6 weaken, 0 fail; fixed; V1 sets Mandela's B UNKNOWN, V2 and V3 keep Machiavelli and Davis as coded); batch W (Nicolaus Copernicus, Pythagoras, Richard Wagner, Roger Penrose; Paul Dirac already coded) passed its blind audit (35 hold, 5 weaken, 0 fail; fixed; W1 keeps Copernicus BELOW_THRESHOLD, W2 adds IDEAL as a lead for Wagner, W3 keeps Penrose ATHE at 0.5); batch X (Samuel Morse, Siddhartha Gautama, Sigmund Freud, Srinivasa Ramanujan) passed its blind audit (45 hold, 7 weaken, 0 fail; fixed; X1 keeps Morse's B BELOW_THRESHOLD, X2 keeps Gautama BELOW_THRESHOLD with BUDDH the lead, X3 makes Freud not a scientist, X4 keeps Ramanujan as coded; Pythagoras's era now UNKNOWN under a strict P39); batch Y (Steve Jobs, Sun Tzu, Terence Tao, Toni Morrison; Thomas Aquinas already coded), the last batch of this run, passed its blind audit (64 hold, 3 weaken, 0 fail; fixed; Y1 and Y2 keep Jobs and Morrison BELOW_THRESHOLD, Y3 makes Tao not a scientist; Sun Tzu's era now UNKNOWN); the chart images were refreshed after batch Y and again after Jason's 2026-10-19 rulings and the label fix (57 plotted, 86 not scorable; no overlapping labels); next in order after rank 136: Virgil, Ada Yonath, Akira Kurosawa, Al-Biruni; systems were sourced in batches of six in v7.1 number order (S1 passed its blind audit, 5 hold, 2 weaken; fixed under P44; S2 passed its blind audit, 9 hold, 1 weaken; fixed; S3 passed its blind audit, 10 hold, 1 weaken; fixed; S4 passed its blind audit, 11 hold, 1 weaken; fixed; S5 passed its blind audit, 13/13 hold; follow-ups applied; S6 passed its blind audit, 14 hold, 1 weaken; fixed; S7 passed its blind audit, 13 hold, 3 weaken; fixed (P44(e)); S8 passed audit with fixes (SHINTO B, HINDU C, HELLEN and KEMET re-sourced under P45(a)); S9 passed audit with fixes (RODNOV A and BON A, B to UNKNOWN; P46 added); S10 passed audit with fixes (VODUN scope, ANTHRO D 1, quote-backed P46 checks); S11 passed audit with fixes (THEOS B 3; summary-only sources are leads); S12 passed audit with fixes (P45(b) amended; RAEL stays sourced). Systems pass complete: all 77 worked in batches S1–S12, every batch blind-audited with fixes applied; 66 sourced, 10 sourced but unscored (P46), 1 stub (4THWAY, until a full text is read)); the revised rubric has not started |
 
 <!-- END GENERATED: progress -->
 
@@ -43,7 +43,7 @@ These charts describe what is in the repo so far; they are not results. The rost
 ![Draft person scores: where coded people fall on where God is against how things happen, with no region marked](figures/people_cause_locus.png)
 
 <!-- BEGIN GENERATED: people_chart_caption -->
-*Draft person scores: where God is (up the chart) against how things happen (across the chart). No region is marked. Plotted: the 57 coded people with both axes scored; every plotted person is B_cause 2, 3 or 4. Nobody plotted scores in the left two columns (miracles or intervention, or mostly intervention). **Interview voice (P43):** Igor Stravinsky (A 0, B 2) rests on interview statements of disputed wording (for Stravinsky, the Craft books), capped at 0.5 and drawn faded; 4 plotted people score left of B 3 (Hegel, Khaldun, Pascal, Stravinsky). **Not scorable yet:** 86 coded people lack a score on at least one axis (26 with no A_locus score, 15 with no B_cause score, 45 with neither; the value is UNKNOWN or BELOW_THRESHOLD). They are not plotted and are left out of every count here. These are unreviewed, hand-picked drafts, not a sample, and there is no base rate for any era, so the chart shows only where these people fall, not a pattern or a rate. Each surname sits next to its dot. A faded dot is a less certain score (below 0.7 on at least one axis).*
+*Draft person scores: where God is (up the chart) against how things happen (across the chart). No region is marked. Plotted: the 57 coded people with both axes scored; every plotted person is B_cause 2, 3 or 4. Nobody plotted scores in the left two columns (miracles or intervention, or mostly intervention). **Interview voice (P43):** Igor Stravinsky (A 0, B 2) rests on interview statements of disputed wording (for Stravinsky, the Craft books), capped at 0.5 and drawn faded; 4 plotted people score left of B 3 (Hegel, Ibn Khaldun, Pascal, Stravinsky). **Not scorable yet:** 86 coded people lack a score on at least one axis (26 with no A_locus score, 15 with no B_cause score, 45 with neither; the value is UNKNOWN or BELOW_THRESHOLD). They are not plotted and are left out of every count here. These are unreviewed, hand-picked drafts, not a sample, and there is no base rate for any era, so the chart shows only where these people fall, not a pattern or a rate. Each surname sits next to its dot. A faded dot is a less certain score (below 0.7 on at least one axis).*
 <!-- END GENERATED: people_chart_caption -->
 
 ![Draft belief-system scores on where God is against how things happen, with margin strips for systems where an axis is not settled](figures/systems_cause_locus.png)

diff --git a/CHANGELOG.md b/CHANGELOG.md
@@ -600,6 +600,8 @@ Sourced drafts of the systems the first-pool people are most likely to be coded 
   - King (RQ U1 of the batch U audit): B_cause re-based on Strength to Love (1963, in the span), read in the King Papers first typed drafts of chapters IV ('Love in Action': 'She must do everlasting honor to her fixed, immutable laws'), XV ('The Answer to a Perplexing Question': 'we must never feel that God will, through some breathtaking miracle or a wave of the hand, cast evil out of the world') and XIII ('Our God Is Able', for the B 2 alternative). B 3 at 0.7 (was 0.5) on written_profession, alternatives 4 and 2, with the 1949 essay as support. mid_basin BELOW_THRESHOLD -> true at 0.7; his dot is now solid. Recorded under P41. The 1963 printed text was not seen; the editors' notes mark no change in the quoted passages.
   - Kant (TF7 of the batch T audit): B_cause 4 -> 3 at 0.7, alternative 4, per P30 #14; mid_basin stays true at 0.7. His dot moves one column left. Recorded under P30.
 
+- **2026-10-19, chart label fix and refresh** (Jason: 'fix them'). scripts/make_figures.py: each grid cell's columns and font size are now fitted from measured label widths (fit_cell), so no label runs into the next column or row (Chandrasekhar and Russell; the crowded 'mostly a person outside the world' cell); markers shrink with the font in crowded cells; the overlay figure is larger (22 x 15.5 in) and the people chart slightly larger (18 x 13 in); a check (report_overlaps) prints any overlapping label boxes when the figures are drawn (0 on all three grids). scripts/lib/records.py: short_label() drops parentheticals and suffixes ('Martin Luther King Jr.' -> King; 'Ibn Rushd (Averroes)' -> Ibn Rushd; two-word Ibn names keep both words, so Ibn Khaldun and Ibn Sina; Leonardo da Vinci -> Leonardo), used by both charts and the README caption. All figures regenerated after Jason's rulings: 57 plotted, 86 not scorable; King now solid (A 1, B 3), Kant moves to B 3. No data changes in this commit.
+
 ## v7.1 (2026-09-14 data freeze)
 
 - Published in [neuresthetics_v7](https://github.com/neuresthetics/neuresthetics_v7).
